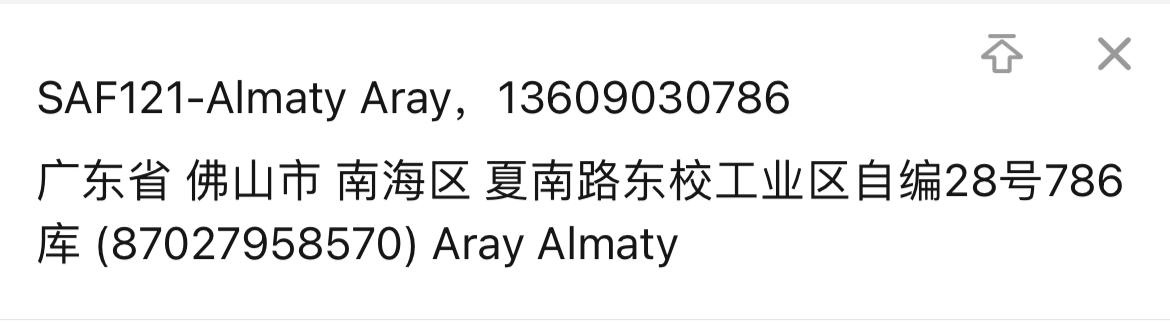
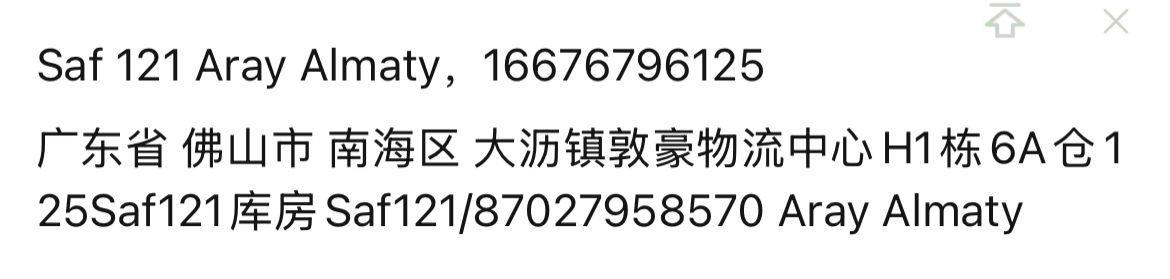
new china

diff --git a/resources/views/layouts/navigation.blade.php b/resources/views/layouts/navigation.blade.php
@@ -57,7 +57,7 @@
 
                         <div class="bg-[#fab4b4] p-2 mt-4 mb-4">
                             <p><span>Образец</span></p>
-                            <img src="{{asset('images/china.jpg')}}" alt="China">
+                            <img src="{{asset('images/newchina.jpg')}}" alt="China">
                         </div>
                         <hr class="h-px mb-4 bg-gray-200 border-0">
 
